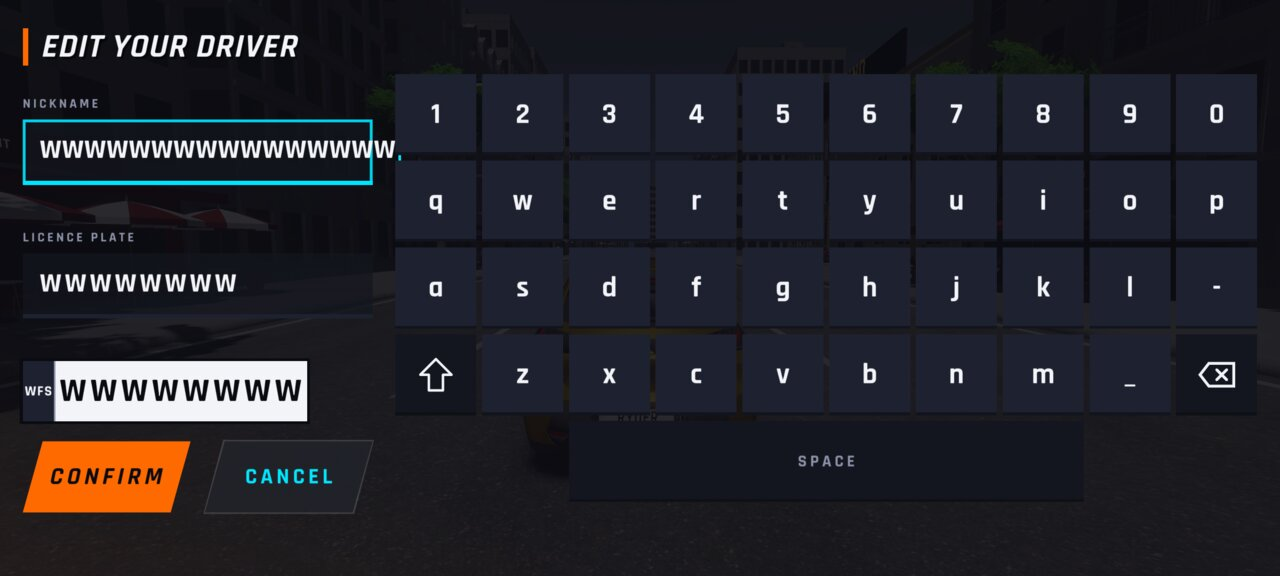
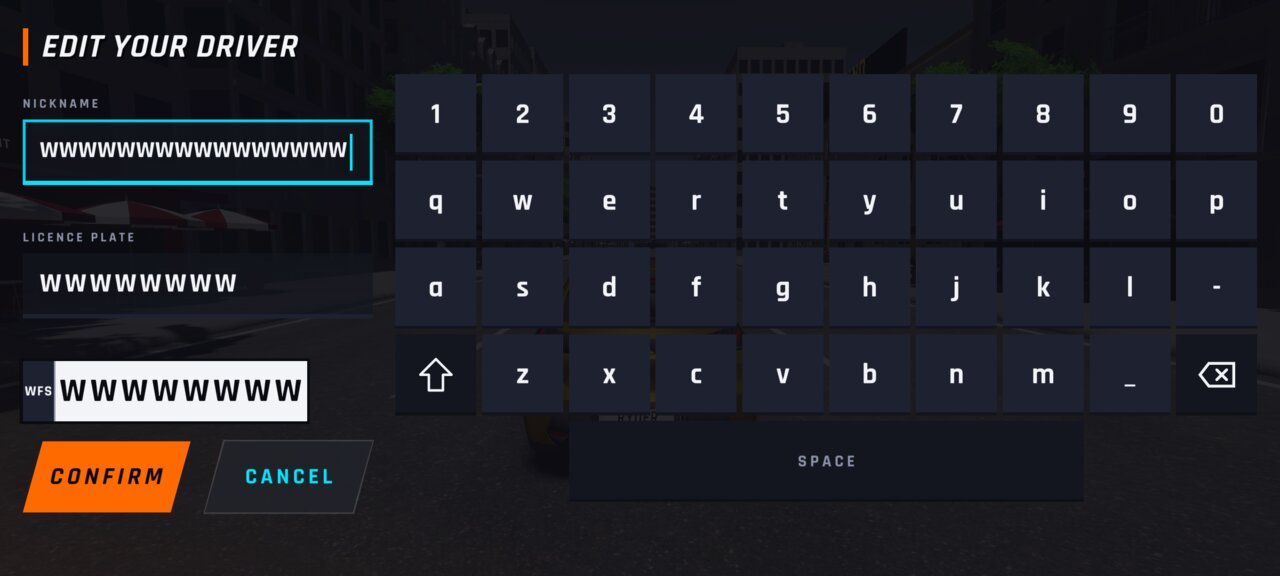
WFS-482 : retour lead dev : pseudo de 16 « W » tenu dans le champ « Modifier », journal des tests CPU (Claude, agent dev3d (01Us6uCv3H))
Claude-Session: https://claude.ai/code/session_01Us6uCv3HYcaQWP4Kjigd6G

Changed region(s): [[0.0312, 0.2188, 0.3125, 0.2812]]

diff --git a/src/ui/ecrans/creation_profil.cpp b/src/ui/ecrans/creation_profil.cpp
@@ -141,6 +141,7 @@ Page miseEnPage(float W, float H, const Marges& m) {
 }
 
 // champ de saisie (verre teinté, liseré bas, contour cyan quand il est choisi) ; texte du joueur, curseur clignotant
+bool g_champsEntiers = true;   // WFS-482 (RG-08) : textes saisis entiers dans leur champ à la dernière image
 void champ(Renderer& r, const Zone& z, float u, const std::string& valeur, const char* indice, bool choisi, bool clignote, float espacement) {
     r.uiRect(z.x, z.y, z.w, z.h, GLASS);
     r.uiRect(z.x, z.y + z.h - 3 * u, z.w, 3 * u, choisi ? hex(ACCENT2) : hex(SURFACE2));
@@ -148,7 +149,11 @@ void champ(Renderer& r, const Zone& z, float u, const std::string& valeur, const
         const vec2 c[4] = {{z.x, z.y}, {z.x + z.w, z.y}, {z.x + z.w, z.y + z.h}, {z.x, z.y + z.h}};
         dessin2d::contour(r, c, 4, 2 * u, hex(ACCENT2, 0.9f));
     }
-    const float px = 24 * u, tx = z.x + 12 * u, ty = z.y + (z.h - px) / 2 - 1.5f * u;
+    // WFS-482 (RG-08) : texte saisi réduit pour tenir dans le champ (16 « W » sans rien qui déborde), curseur compris
+    const float px0 = 24 * u, tx = z.x + 12 * u, place = z.w - 24 * u - 6 * u;
+    const float large = valeur.empty() ? 0.f : ui::width(px0, valeur, espacement);
+    const float px = large > place && large > 0 ? px0 * place / large : px0;
+    const float ty = z.y + (z.h - px) / 2 - 1.5f * u * px / px0;
     if (valeur.empty()) {
         if (indice) {   // indice en gris : texte de la table (journal des textes du banc)
             ui::text(r, tx, ty + 3 * u, 18 * u, ui::tr(indice), hex(MUTED), ui::GAUCHE, 0, false);
@@ -159,6 +164,8 @@ void champ(Renderer& r, const Zone& z, float u, const std::string& valeur, const
         ui::text(r, tx, ty, px, valeur, hex(TEXTE), ui::GAUCHE, espacement, false);
         ui::langue::journalTechnique(false);
     }
+    // WFS-482 (RG-08) : fin du texte et curseur dans le cadre (vérifié par le banc « profil »)
+    if (!valeur.empty() && tx + ui::width(px, valeur, espacement) + 4 * u > z.x + z.w - 2 * u) g_champsEntiers = false;
     if (choisi && clignote) {
         const float cx = valeur.empty() ? tx : tx + ui::width(px, valeur, espacement) + 2 * u;
         r.uiRect(cx, z.y + 10 * u, 2 * u, z.h - 20 * u, hex(ACCENT2));
@@ -237,6 +244,7 @@ void dessiner(Renderer& r, const GameView& g) {
         if (const char* e = s.erreur(c)) ui::textBoite(r, x, y, L, 16 * u, 14 * u, ui::tr(e), hex(DANGER), ui::GAUCHE, 0, false);
         y += 16 * u + 10 * u;
     };
+    g_champsEntiers = true;
     bloc(Champ::Pseudo, "creation.pseudo", g_e.zPseudo, s.pseudo(), "creation.indice", 0.02f);
     bloc(Champ::Plaque, "creation.plaque", g_e.zPlaque, s.plaque(), nullptr, 0.10f);
     const float wp = std::min(L, 200 * u);
@@ -343,6 +351,7 @@ void ouvrirModificationProfil() {
     g_modifDemandee = true;
     WFS_LOG("profil (WFS-482) : « Modifier » → formulaire de WFS-481 (pseudo « %s », plaque « %s »)", sauvegarde().nick.c_str(), sauvegarde().profil.plaque.c_str());
 }
+bool champsCreationEntiers() { return g_champsEntiers; }
 bool modificationProfilOuverte() { return g_modifDemandee || (g_e.ouvert && g_e.modification); }
 
 bool centreCreationProfil(const std::string& nom, float& x, float& y) {

diff --git a/src/ui/ecrans/menu.cpp b/src/ui/ecrans/menu.cpp
@@ -46,7 +46,7 @@ float ease(float t) {
 }
 
 struct Choix { const char* titre; const char* desc; };
-enum { SOLO = 0, DUEL = 1, SHOWROOM = 2, TA_VOITURE = 3, CREDITS = 4, CADEAU = 5, COMPTEUR = 6, PROFIL = 7 };   // WFS-482 : « Profil »   // WFS-96 : 4e zone = « Ta voiture » (pied du menu) ; WFS-406 : bouton « Crédits » ; WFS-501 : « Cadeau du jour » ; WFS-537 : compteur d'étoiles
+enum { SOLO = 0, DUEL = 1, SHOWROOM = 2, TA_VOITURE = 3, CREDITS = 4, CADEAU = 5, COMPTEUR = 6, PROFIL = 7 };   // WFS-96 : 4e zone = « Ta voiture » (pied du menu) ; WFS-406 : bouton « Crédits » ; WFS-501 : « Cadeau du jour » ; WFS-537 : compteur d'étoiles ; WFS-482 : « Profil »
 // zones touchables des 3 choix (RG-02) : les parallélogrammes dessinés à la dernière image (x, y, largeur, hauteur, biais)
 struct Zone { float x = 0, y = 0, w = 0, h = 0, biais = 0; bool ok = false; };
 Zone g_zones[4];

diff --git a/src/ui/ecrans/creation_profil.h b/src/ui/ecrans/creation_profil.h
@@ -24,6 +24,8 @@ bool creationProfilOuverte();
 // (rien ne change ; c'est aussi la touche Retour d'Android). Se ferme seul si l'écran Menu est quitté.
 void ouvrirModificationProfil();
 bool modificationProfilOuverte();
+// WFS-482 (RG-08) : à la dernière image, pseudo et plaque saisis dessinés entiers dans leur champ (banc)
+bool champsCreationEntiers();
 // banc et tests : centre d'une zone de l'écran (« pseudo », « plaque », « valider », « annuler », ou un caractère du clavier : « a »)
 bool centreCreationProfil(const std::string& nom, float& x, float& y);
 // WFS-482 (RG-02) : aperçu 2D de la plaque de WFS-481 (gabarit 520 x 110 mm, bande « WFS »), réutilisé par l'écran Profil

diff --git a/src/ui/ecrans/profil.cpp b/src/ui/ecrans/profil.cpp
@@ -454,6 +454,7 @@ int benchUneLangue(Game& gm, Renderer& r, const std::string& out, ui::langue::Ch
     capture("16w", "pseudo de 16 « W » et plaque « WWWWWWWW » sans coupure");
     // « Modifier » avec le pseudo de 16 « W » (formulaire de WFS-481)
     appuyer("modifier"); images(5);
+    verifier(creationProfilOuverte() && champsCreationEntiers(), "RG-08 : « Modifier » : pseudo de 16 « W » et curseur dans le champ");
     capture("16w-modification", "« Modifier » avec le pseudo de 16 « W »");
     touche("annuler"); images(3);
     appuyer("retour"); images(10);

diff --git a/qa/pr/WFS-482/pr.md b/qa/pr/WFS-482/pr.md
@@ -21,6 +21,10 @@
   - date en heure locale du téléphone (banc : UTC) ; la plaque 3D change à la course suivante (WFS-483, hors ticket) ;
   - non essayé sur téléphone (pas d'APK de branche) : à regarder sur l'APK de `main` après la fusion.
 
+## Tests CPU
+
+`bash tools/qa/tests_cpu.sh build` sur la branche synchronisée avec `main` : **140 test(s) réussi(s) en 335 s**, 0 échec — journal complet : [`qa/pr/WFS-482/tests-cpu.log`](https://github.com/wlfaleh/waforspeed_mobile/blob/feature/waforspeed-482/qa/pr/WFS-482/tests-cpu.log).
+
 ## Captures pour le lead dev (26 après)
 
 Dossier : [`qa/pr/WFS-482`](https://github.com/wlfaleh/waforspeed_mobile/blob/feature/waforspeed-482/qa/pr/WFS-482) — produit par `tools/qa/captures_pr.sh`.
